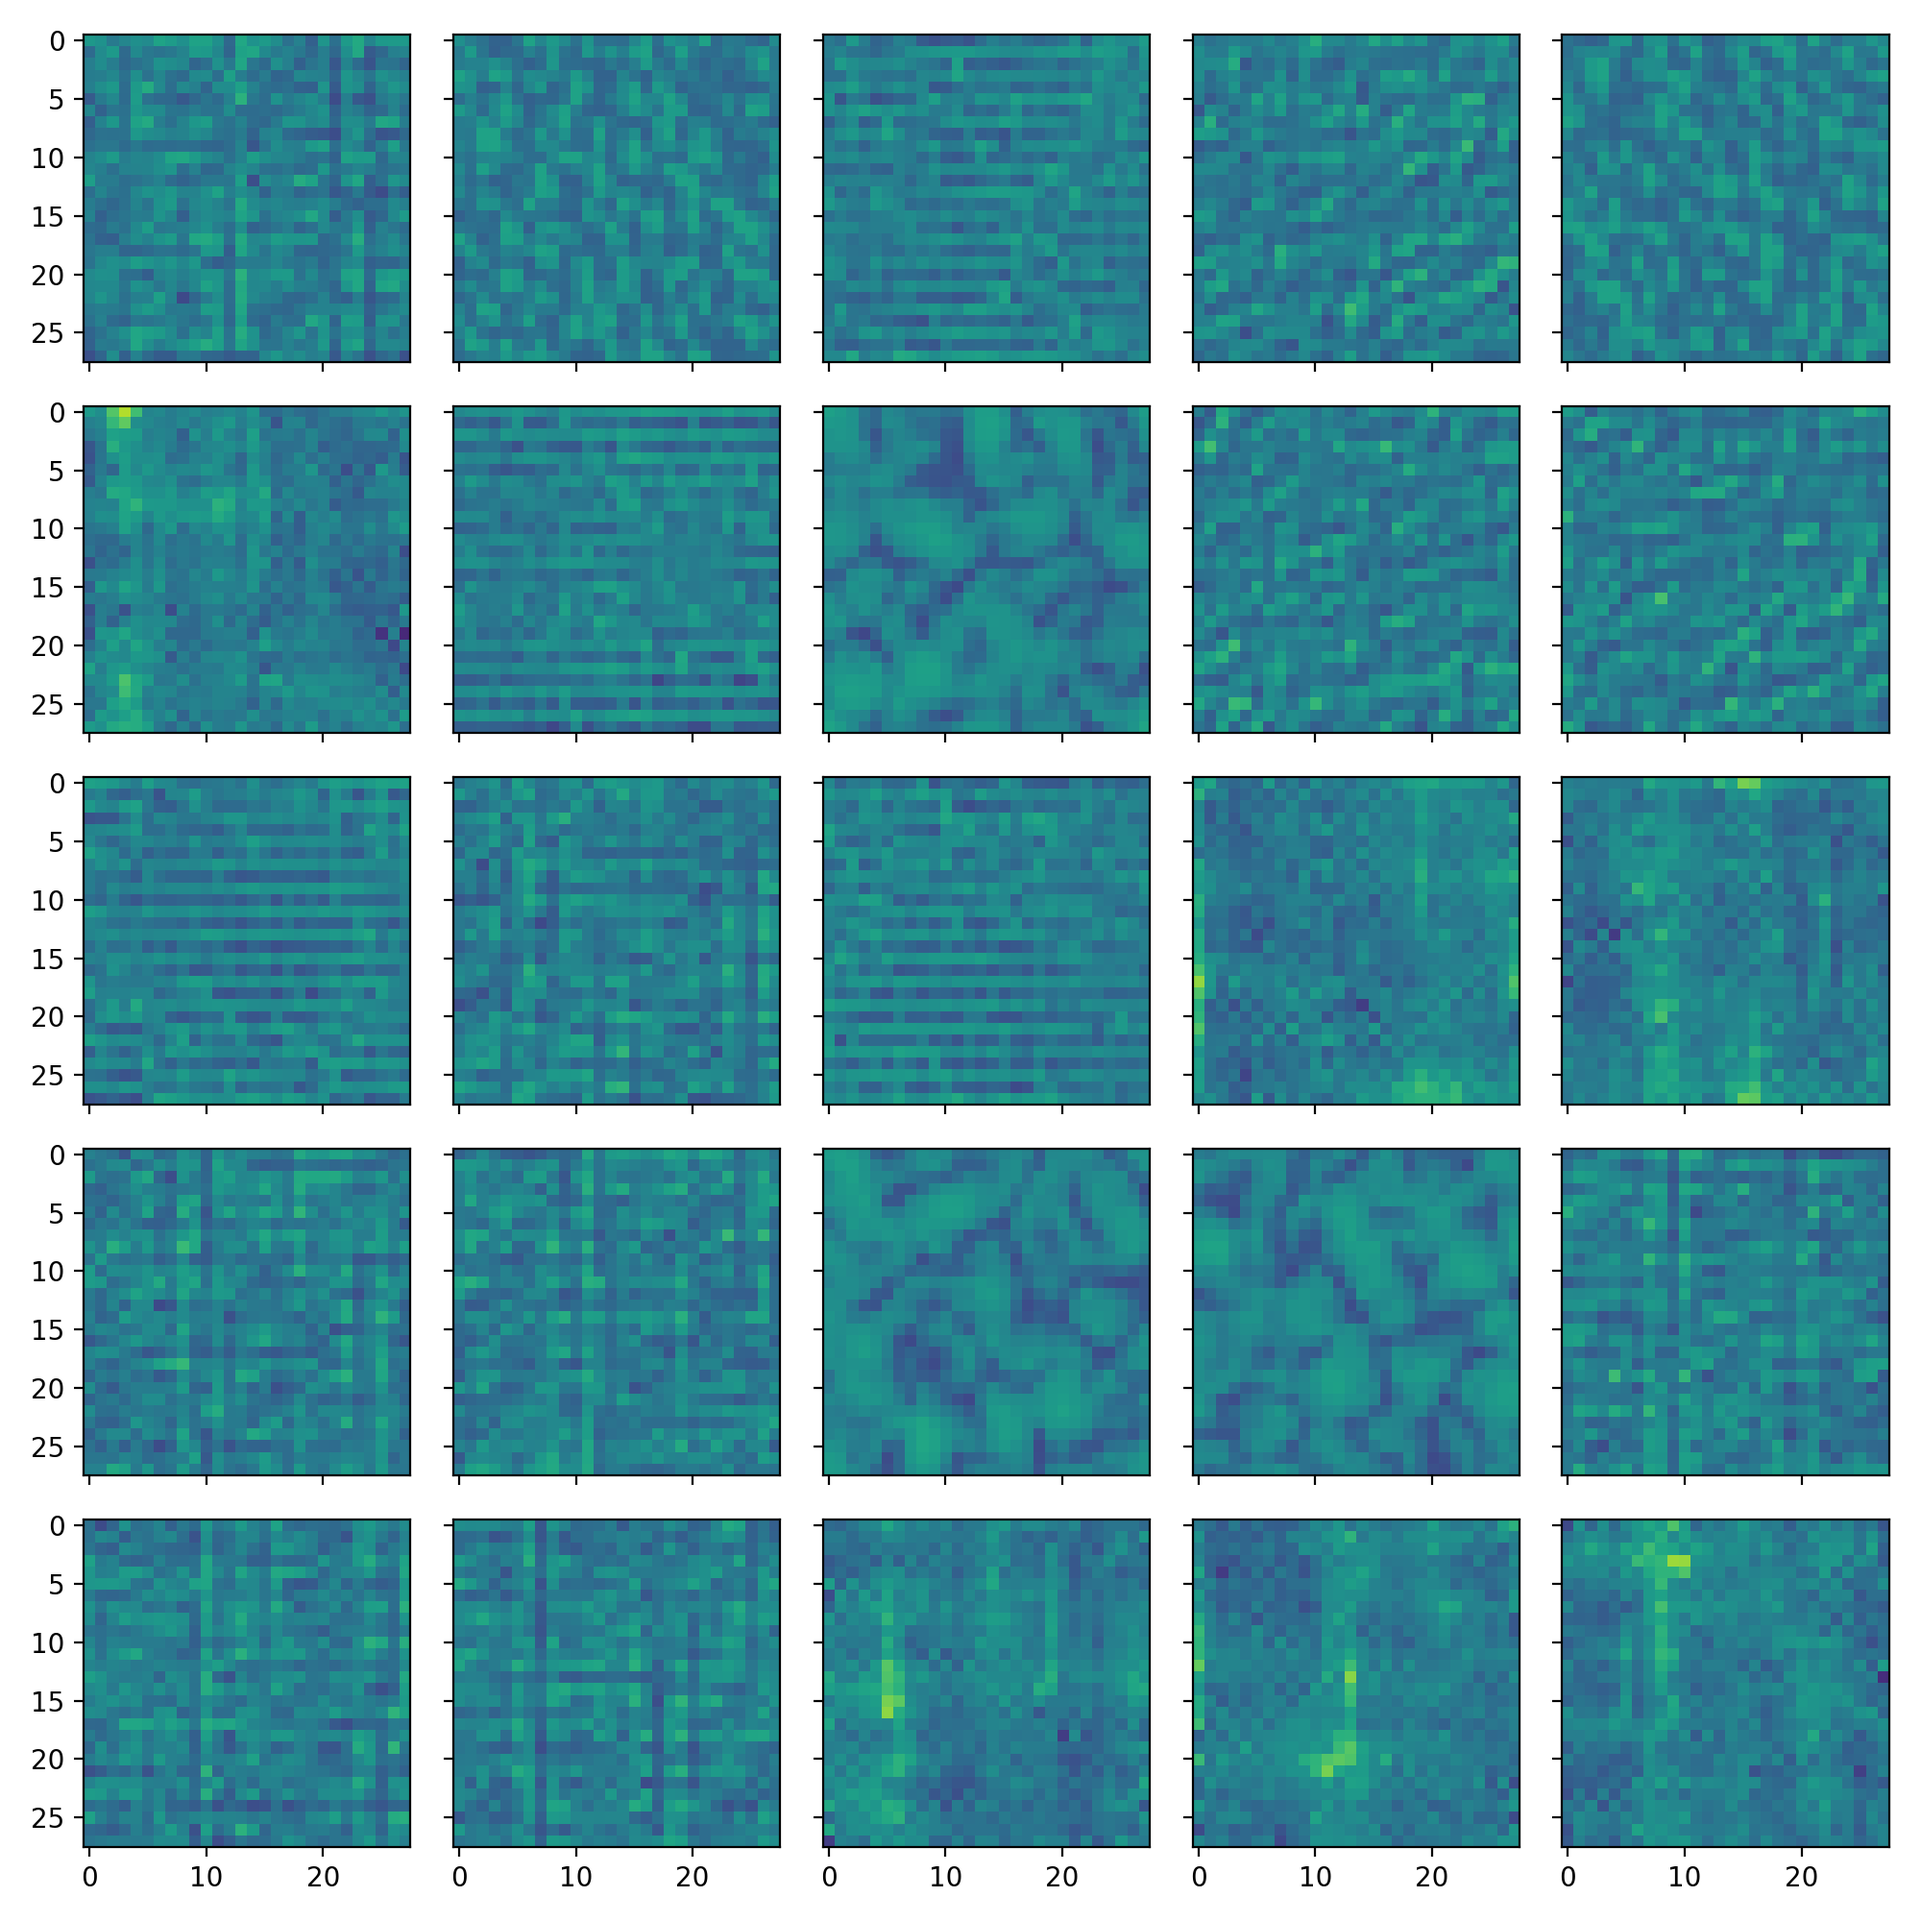
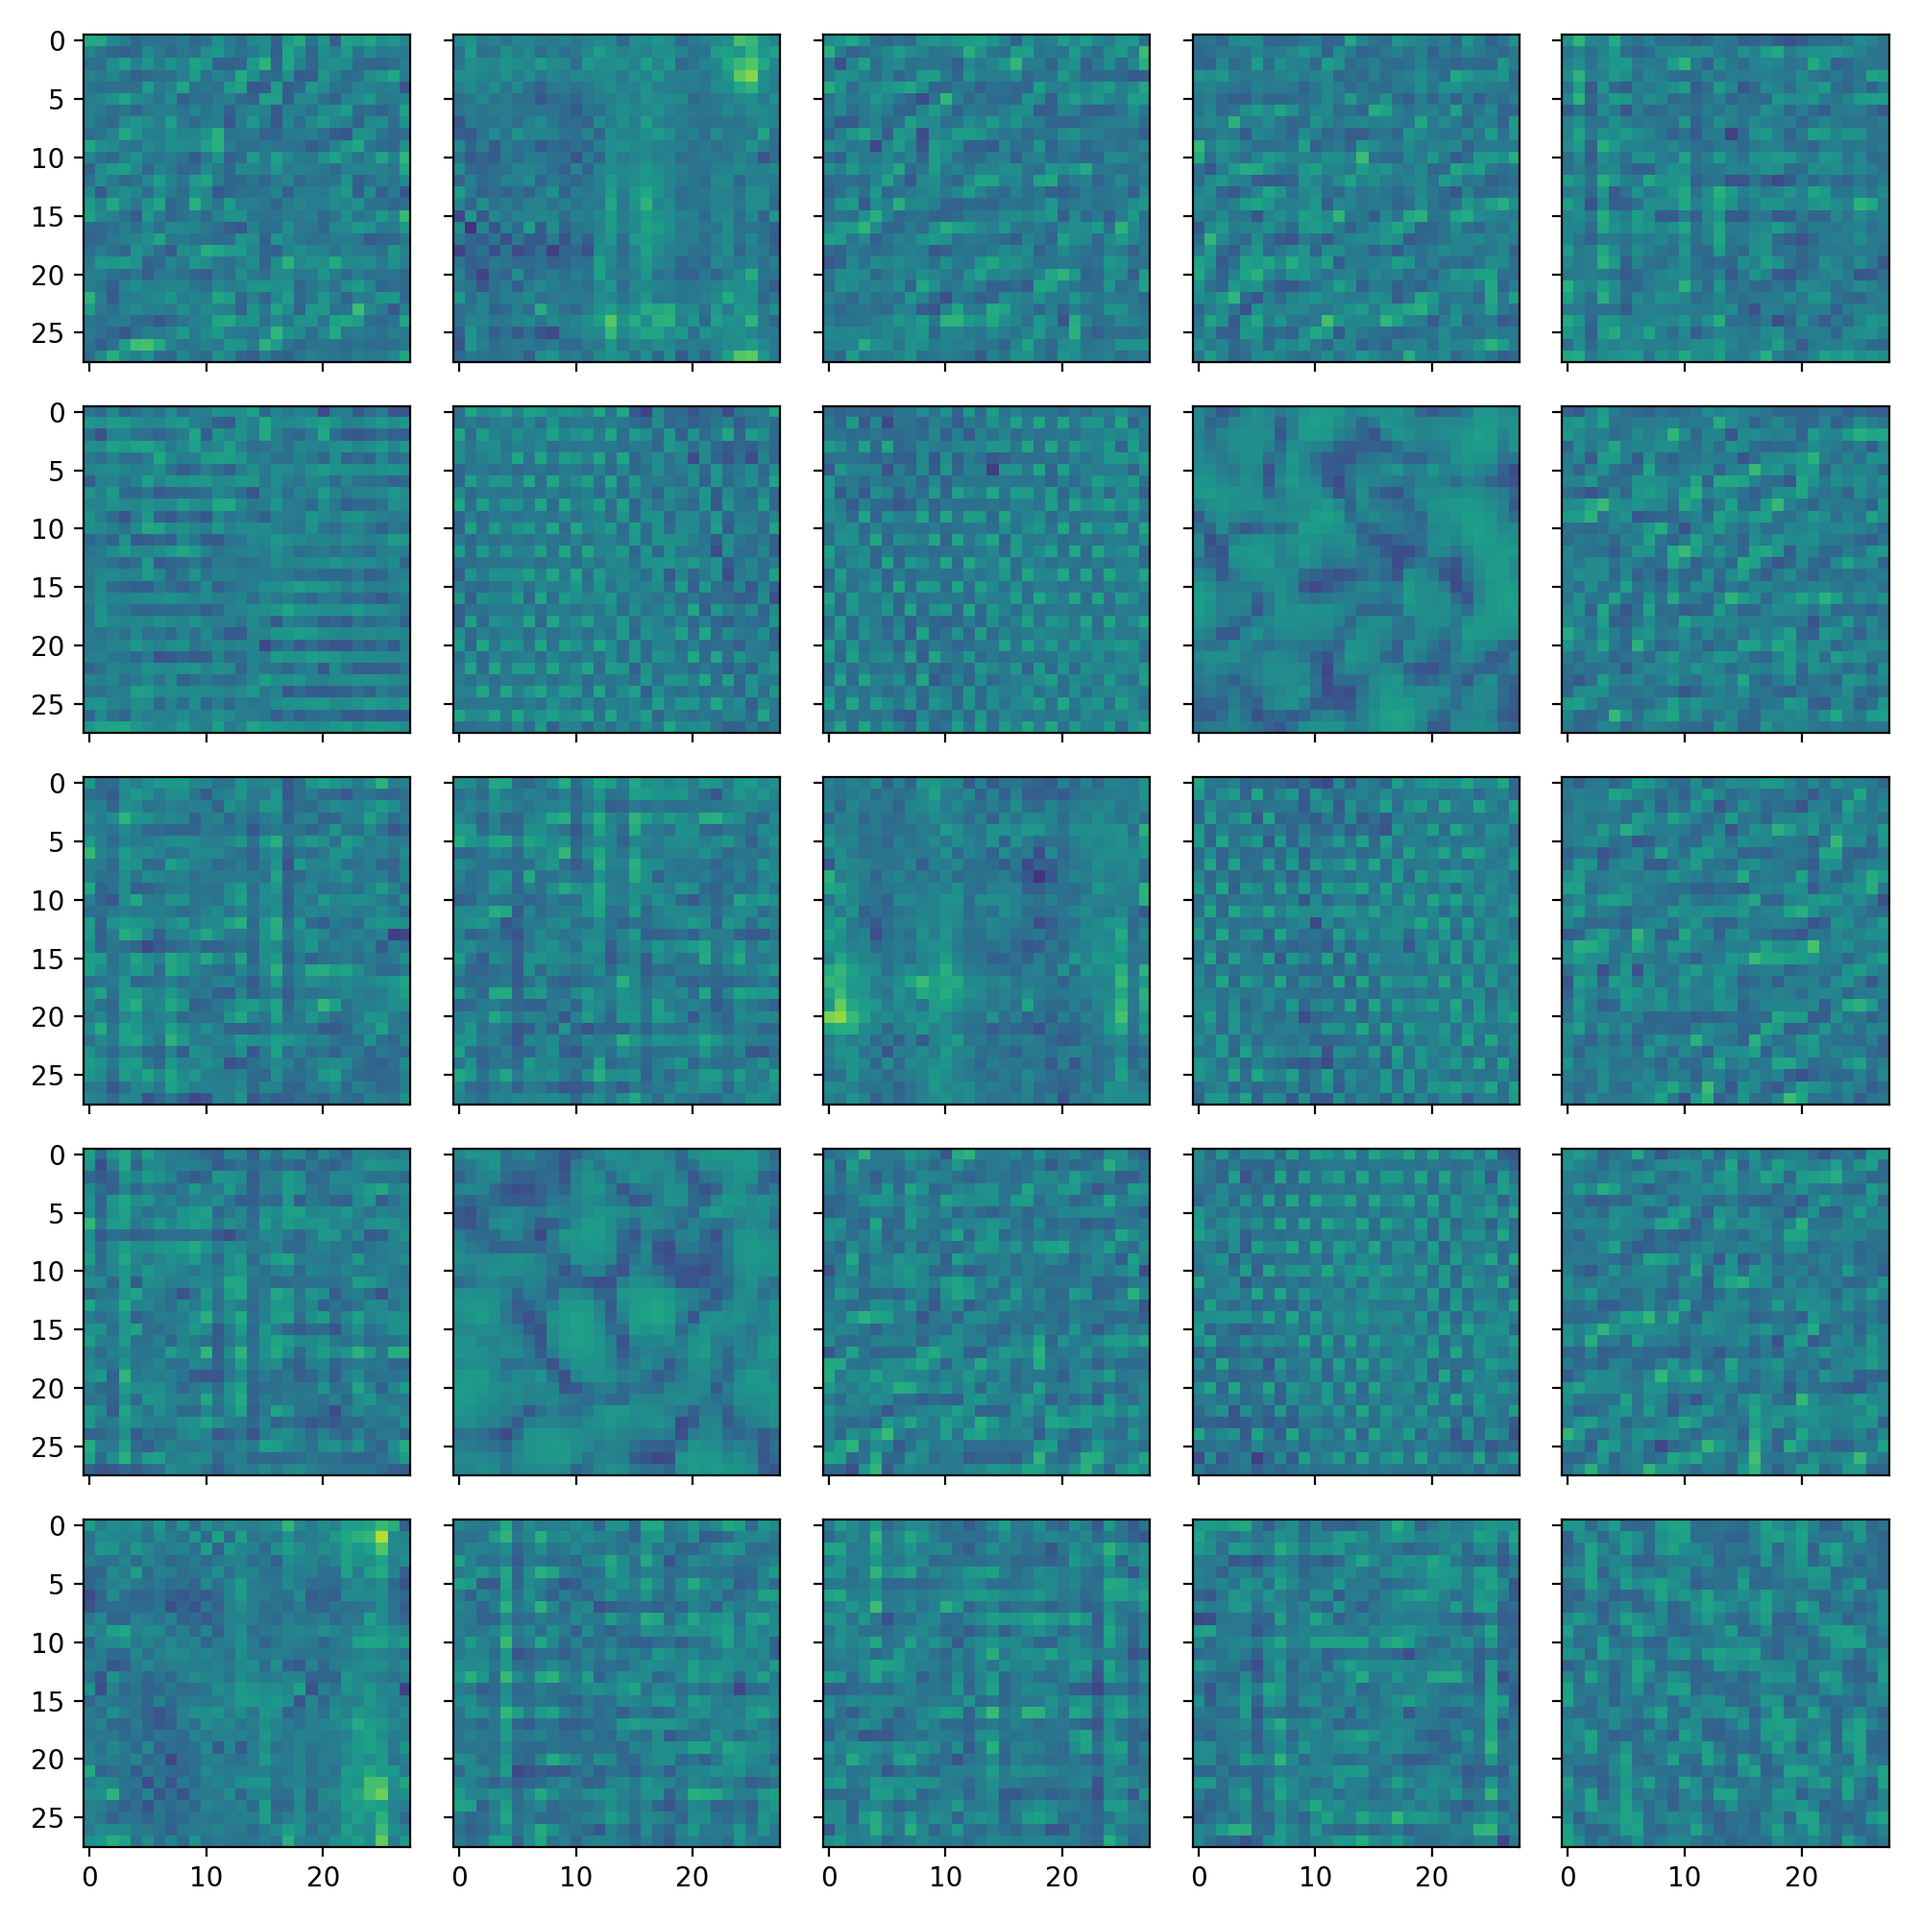
some mods for TD, BU components

Changed region(s): [[0.031, 0.0, 0.992, 0.961]]

diff --git a/csnl/visualize/compare_plot.py b/csnl/visualize/compare_plot.py
@@ -115,14 +115,42 @@ class VAEPlotter:
                      self._latent_dim)
         plt.savefig("generated_samples.png", dpi=200)
         plt.show()
+    
+    def plot_td_bu_values(self, latent_dim1):
+        images, labels = next(self.label_datagen.flow())
+        try:
+            recos, z1, z2, z_mean_BU, z_log_var_BU, z_mean_TD, z_log_var_TD = self.latent_model.predict(
+                images, batch_size=self.batch_size)
+        except ValueError:
+            recos, z1, z2, z_mean_BU, z_log_var_BU, z_mean_TD, z_log_var_TD = self.latent_model.predict(
+                images.reshape(self.batch_size, 28 * 28),
+                batch_size=self.batch_size)
+        
+        mean_and_vars = [[z_mean_BU, z_log_var_BU], [z_mean_TD, z_log_var_TD]]
+        names = ['Bottom up values', 'Top down values']
+        fig, axes = plt.subplots(2, 2, sharex=False, sharey=False, figsize=(7, 9))
+        for ind in range(0, 2):
+            mean, var = mean_and_vars[ind // 2]
+            axes[ind, 0].hist(np.mean(z1, axis=0),  bins=100, alpha=0.2, label="z1")
+            axes[ind, 1].hist(np.std(z1, axis=0), bins=100, alpha=0.2, label="z1")
+            axes[ind, 0].hist(np.mean(mean, axis=0),  bins=100, alpha=0.2, label="other")
+            axes[ind, 1].hist(np.exp(np.mean(var, axis=0)), bins=100, alpha=0.2, label="other")
+            axes[ind, 0].set_title(names[ind] + " - mean")
+            axes[ind, 0].set_xlim(-2, 2)
+            axes[ind, 1].set_title(names[ind] + " - sigma")
+            axes[ind, 0].legend(loc='upper right')
+            axes[ind, 1].legend(loc='upper right')
+        fig.tight_layout()
+        plt.savefig("TD_BU_COMPS.png", dpi=200)
+        plt.show()
 
     def plot_label_correlations(self):
         images, labels = next(self.label_datagen.flow())
         try:
-            recos, z1, z2 = self.latent_model.predict(
+            recos, z1, z2, _, _, _, _ = self.latent_model.predict(
                 images, batch_size=self.batch_size)
         except ValueError:
-            recos, z1, z2 = self.latent_model.predict(
+            recos, z1, z2, _, _, _, _ = self.latent_model.predict(
                 images.reshape(self.batch_size, 28 * 28),
                 batch_size=self.batch_size)
 
@@ -188,12 +216,12 @@ class VAEPlotter:
             return contrasted_images.reshape(self.batch_size, 784), contrasted_images.reshape(self.batch_size, 784)
 
         try:
-            reco, z1, z2 = self.latent_model.predict_generator(contrast_flow(
+            reco, z1, z2, _, _, _, _ = self.latent_model.predict_generator(contrast_flow(
             self.datagen.flow()),
                                                            steps=50,
                                                            verbose=1)
         except ValueError:
-            reco, z1, z2 = self.latent_model.predict_generator(conv_contrast_flow(
+            reco, z1, z2, _, _, _, _ = self.latent_model.predict_generator(conv_contrast_flow(
             self.datagen.flow()),
                                                            steps=50,
                                                            verbose=1)

diff --git a/csnl/ladder_variational_autoencoders/ladder_vae.py b/csnl/ladder_variational_autoencoders/ladder_vae.py
@@ -146,7 +146,12 @@ class LadderVAE:
         # Model for latent inference
         z1 = self.z1
         z2 = self.z2
-        latent_model = Model(input_img, outputs=[reco, z1, z2])
+        z_mean_BU = self.z1_mean_BU
+        z_log_var_BU = self.z1_log_sigma_BU
+        z_mean_TD = self.z1_mean_TD
+        z_log_var_TD = self.z1_log_sigma_TD
+        args = z_mean_BU, z_log_var_BU, z_mean_TD, z_log_var_TD
+        latent_model = Model(input_img, outputs=[reco, z1, z2, z_mean_BU, z_log_var_BU, z_mean_TD, z_log_var_TD])
 
         self.latent_dim = self.latent_dim2
 

diff --git a/test.py b/test.py
@@ -28,10 +28,11 @@ trainer = ModelTrainer(vae,
                        decay=1e-5,
                        beta=1)
 
-trainer.fit(4, 10, contrast=True, warm_up=True, make_gif=True)
+trainer.fit(10, 1000, contrast=True, warm_up=True, make_gif=True)
 
 plotter = VAEPlotter(trainer, data_gen, data_gen_labels, grid_size=8)
 plotter.plot_contrast_correlations(latent_dim2=LATENT_DIM1)
 plotter.plot_label_correlations()
 plotter.grid_plot()
 plotter.generate_samples()
+plotter.plot_td_bu_values(LATENT_DIM1)

diff --git a/csnl/variational_autoencoders/variational_autoencoder.py b/csnl/variational_autoencoders/variational_autoencoder.py
@@ -40,7 +40,8 @@ class VariationalAutoEncoder(Encoder):
         generator = Model(decoder_input, _reco)
 
         # Model for later inference
-        latent_model = Model(input_img, outputs=[reco, z, z])
+        # None, None added for compatibility
+        latent_model = Model(input_img, outputs=[reco, z, None, None, None, None, None])
 
         model = Model(input_img, reco)
         model.beta = K.variable(self.beta)

diff --git a/csnl/autoencoders/auto_encoder.py b/csnl/autoencoders/auto_encoder.py
@@ -21,7 +21,7 @@ class AutoEncoder(Encoder):
         _decoded = decoder(latent_input)
         generative_model = Model(latent_input, _decoded)
 
-        latent_model = Model(input_img, outputs=[decoded, latent])
+        latent_model = Model(input_img, outputs=[decoded, latent, None, None, None, None, None])
 
         losses = Losses(loss_fn, observation_noise)
 
